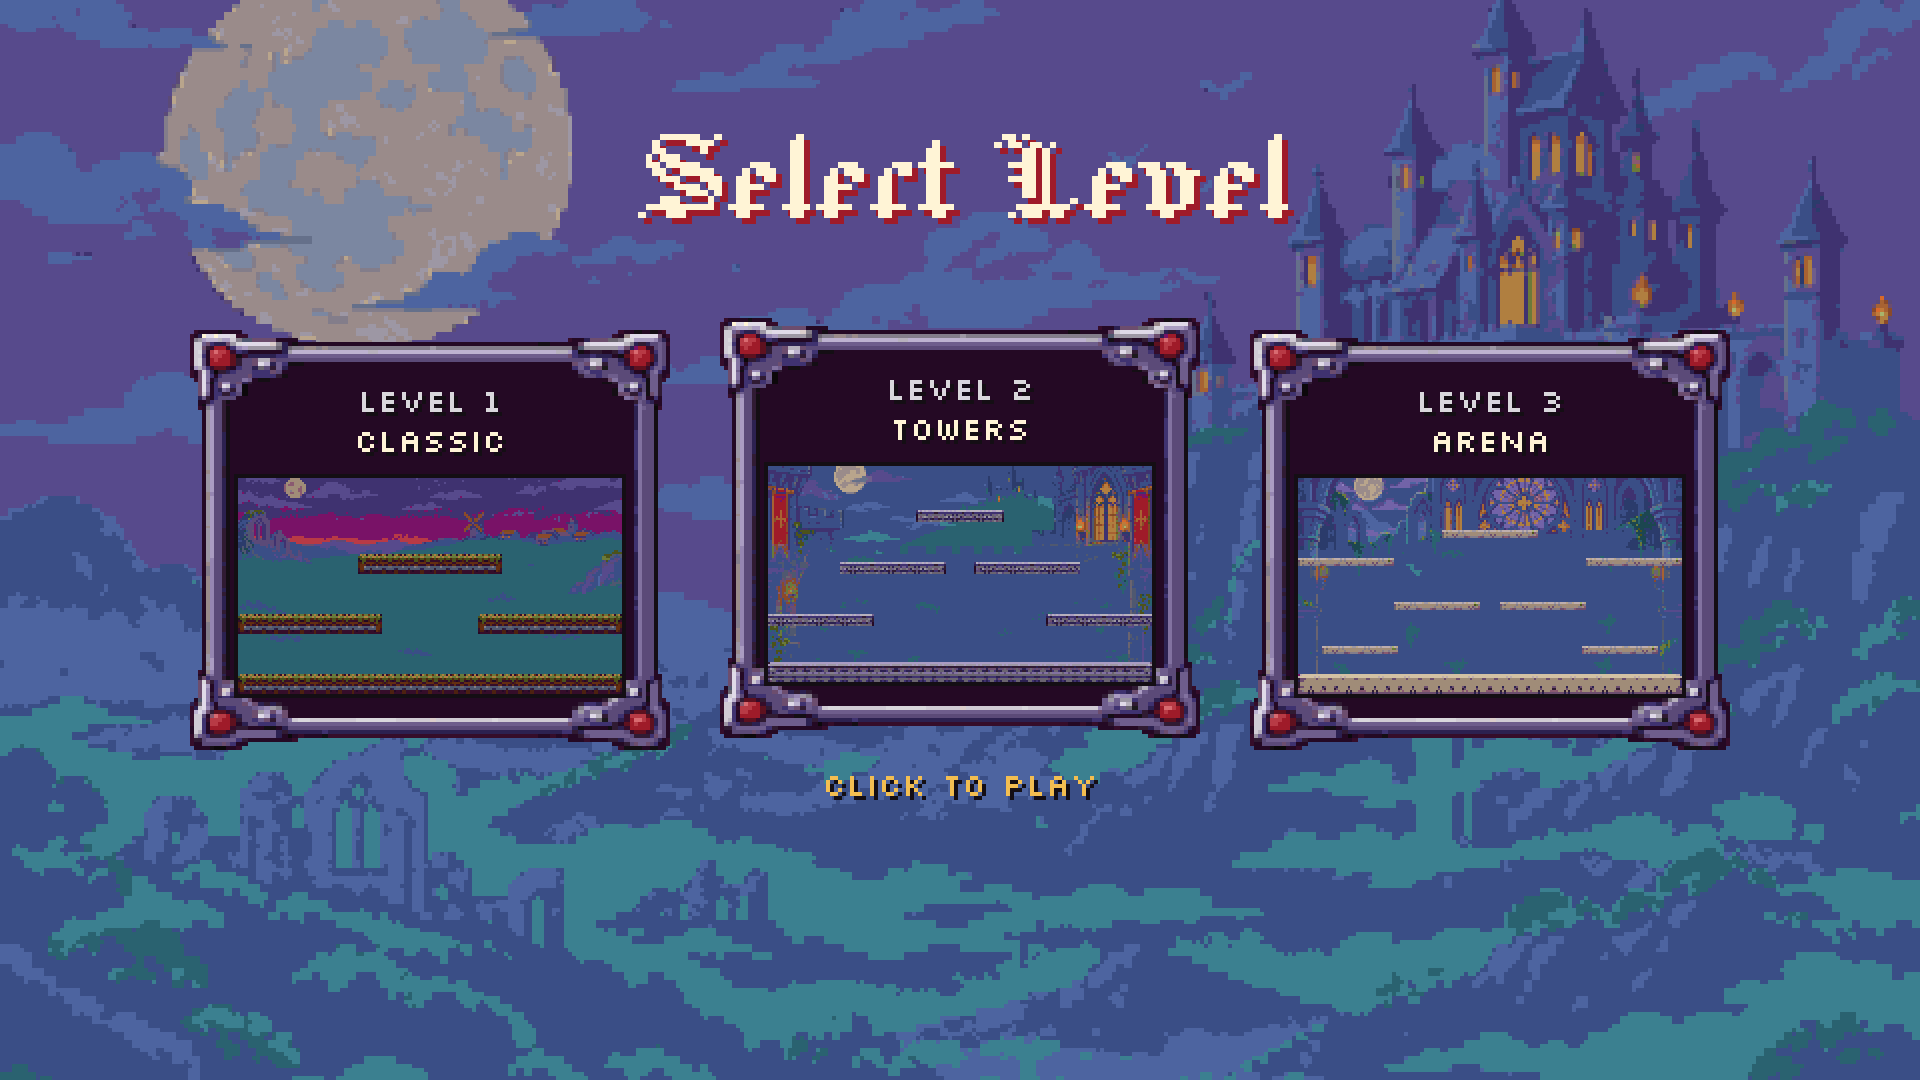
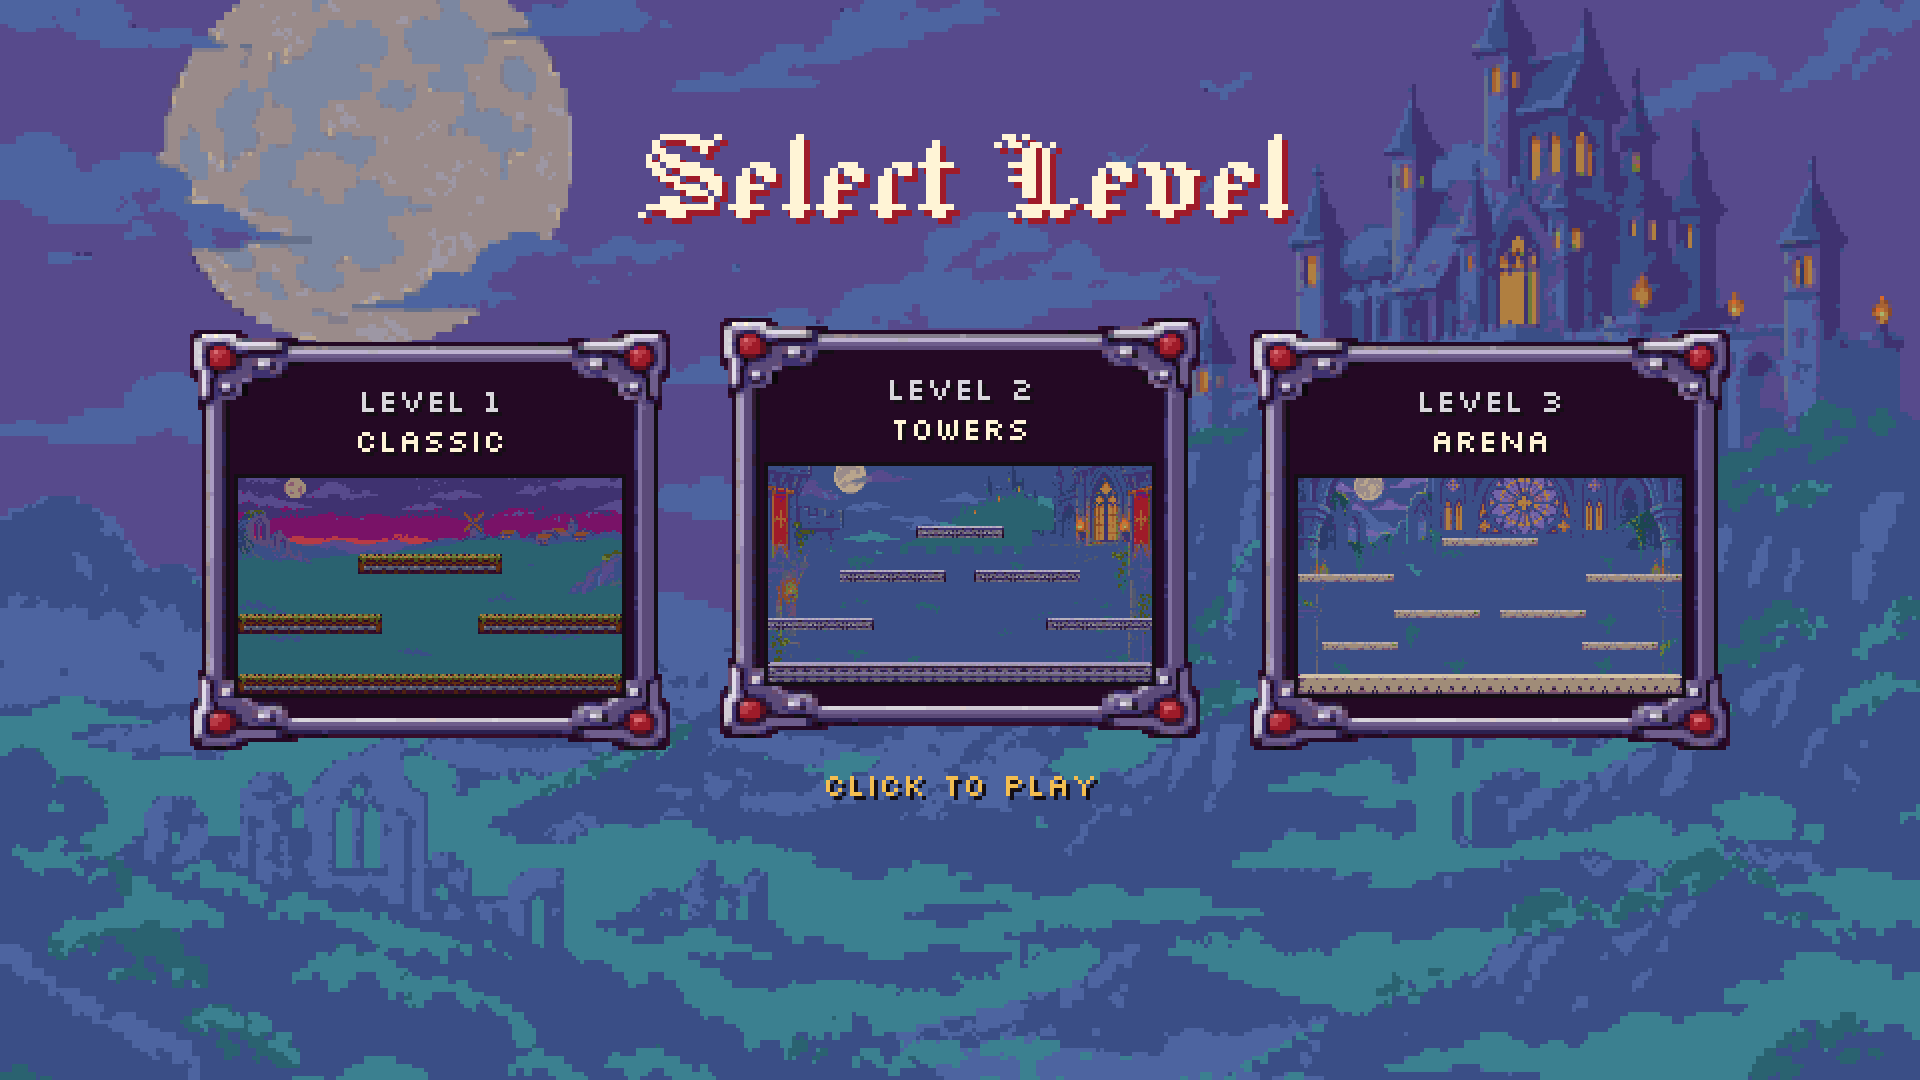
fix: lower the top platforms so a standing player's tag clears the HUD
Towers and Arena top platforms move to y 150 (tiers spaced evenly between the
ground and the top). Tests check the tag clearance and the spacing. Also: the
background docstrings, the test comments, a clear error when shoot.py has not
been run, and an assert before the 16:9 crop.

🤖 Generated with [Claude Code](https://claude.com/claude-code)

diff --git a/tests/test_levels.py b/tests/test_levels.py
@@ -9,20 +9,50 @@ import settings
 from combat import CombatSystem
 from entities import Player, level_platforms
 from input_handler import AIInputHandler
+from renderer import TAG_RISE, TOP_HUD_HEIGHT
 from world import GameWorld
 
 W, H = settings.VIRTUAL_W, settings.VIRTUAL_H
 LEVEL_IDS = range(len(settings.LEVELS))
 APEX_MARGIN = 12  # a platform must be this far below the jump's apex to land on it
+HUD_MARGIN = 6  # px between the HUD and a standing player's role tag
+STAND_HEIGHT = settings.GROUND_Y - int(
+    settings.FLOOR_Y
+)  # sprite top above its platform (60)
 
 
 @pytest.mark.parametrize("level", LEVEL_IDS)
 def test_platforms_sit_inside_the_canvas_above_the_ground(level):
     for (x, y), w, h in settings.LEVELS[level]["platforms"]:
         assert 0 <= x and x + w <= W
-        assert y >= 100  # below the HUD
         assert y + h <= settings.GROUND_Y  # not inside the ground
         assert y % 10 == 0  # "platform y must end in 0" (settings.py)
+
+
+@pytest.mark.parametrize("level", LEVEL_IDS)
+def test_a_player_standing_on_any_platform_clears_the_top_hud(level):
+    """The role tag sits TAG_RISE above the sprite, and the sprite stands STAND_HEIGHT above the
+    platform: the tag must be below the HUD with a margin."""
+    for (x, y), _, _ in settings.LEVELS[level]["platforms"]:
+        tag_top = y - STAND_HEIGHT - TAG_RISE
+        assert tag_top >= TOP_HUD_HEIGHT + HUD_MARGIN, (
+            settings.LEVELS[level]["name"],
+            y,
+        )
+
+
+@pytest.mark.parametrize("level", LEVEL_IDS)
+def test_the_tiers_are_evenly_spaced_between_the_ground_and_the_top(level):
+    ys = sorted(
+        {y for (_, y), _, _ in settings.LEVELS[level]["platforms"]}
+        | {settings.GROUND_Y},
+        reverse=True,
+    )
+    steps = [a - b for a, b in zip(ys, ys[1:])]
+    assert (
+        max(steps) <= 150
+    )  # the steps Classic always had; under the jump's 189 px apex
+    assert max(steps) - min(steps) <= 40  # no tier is squeezed against another
 
 
 @pytest.mark.parametrize("level", LEVEL_IDS)

diff --git a/src/settings.py b/src/settings.py
@@ -68,8 +68,11 @@ BULLET_COLOR = GOLD
 
 
 # Levels  — platform y must end in 0 so velocity steps land cleanly. Laid out on the 960x540
-# canvas: the old 800x600 layouts moved up 60 px (the ground is 60 px higher) and stretched 1.2x
-# sideways, so every vertical step is unchanged and the platforms span the whole width.
+# canvas: the old 800x600 layouts stretched 1.2x sideways so the platforms span the whole width.
+# The tiers are spaced evenly between the ground (490) and the top platform, which sits at 150 or
+# lower: a player standing on it has its role tag and health bar (110 px above the platform) clear
+# of the HUD at the top (34 px). Every step is at most 150 px (Classic's, as always), under the
+# jump's 189 px apex.
 class Level(TypedDict):
     name: str
     background: str  # assets/images/background/<background>.png
@@ -93,11 +96,11 @@ LEVELS: list[Level] = [
         "background": "towers",
         "style": "towers",
         "platforms": [
-            ((0, 370), 264, 30),
-            ((696, 370), 264, 30),
-            ((180, 240), 264, 30),
-            ((516, 240), 264, 30),
-            ((372, 110), 216, 30),
+            ((0, 380), 264, 30),
+            ((696, 380), 264, 30),
+            ((180, 260), 264, 30),
+            ((516, 260), 264, 30),
+            ((372, 150), 216, 30),
         ],
     },
     {
@@ -105,13 +108,13 @@ LEVELS: list[Level] = [
         "background": "arena",
         "style": "arena",
         "platforms": [
-            ((60, 420), 192, 20),
-            ((708, 420), 192, 20),
-            ((240, 310), 216, 20),
-            ((504, 310), 216, 20),
-            ((0, 200), 240, 20),
-            ((720, 200), 240, 20),
-            ((360, 130), 240, 20),
+            ((60, 410), 192, 20),
+            ((708, 410), 192, 20),
+            ((240, 330), 216, 20),
+            ((504, 330), 216, 20),
+            ((0, 240), 240, 20),
+            ((720, 240), 240, 20),
+            ((360, 150), 240, 20),
         ],
     },
 ]

diff --git a/src/renderer.py b/src/renderer.py
@@ -10,6 +10,8 @@ CARD_BORDER = 20  # px of the card frame art that keep their pixels
 CARD_LIFT = 6  # a hovered card is drawn this much higher
 THUMB_MARGIN = 24  # a card's preview is inset this far from its sides
 PLATE_EDGE = 2  # border width of the HUD plates
+TOP_HUD_HEIGHT = 34  # the score plates and level name at the top of the screen
+TAG_RISE = 50  # a role tag's top is this far above its player's sprite
 CARD_SIZE = (240, 210)  # a level-select card
 
 
@@ -92,7 +94,7 @@ class GameRenderer:
         is_vampire = vampire is player
         role_lbl = self._lbl_vampire if is_vampire else self._lbl_peasant
         tag = pygame.Rect(0, 0, role_lbl.get_width() + 10, role_lbl.get_height() + 6)
-        tag.midtop = (ix + player.width // 2, iy - 50)
+        tag.midtop = (ix + player.width // 2, iy - TAG_RISE)
         self._plate(tag, settings.PLUM)
         self._window.blit(role_lbl, role_lbl.get_rect(center=tag.center))
 
@@ -115,7 +117,7 @@ class GameRenderer:
         pygame.draw.rect(self._window, settings.RIM, (bar_x, bar_y, bar_w, bar_h), 1)
 
     def _draw_top_hud(self, p1, p2, current_level: int, score_surfs) -> None:
-        pad, panel_h = 10, 34
+        pad, panel_h = 10, TOP_HUD_HEIGHT
 
         p1_surf = score_surfs[0]
         p1_rect = pygame.Rect(0, 0, p1_surf.get_width() + pad * 2, panel_h)

diff --git a/scripts/art_gen/make_media.py b/scripts/art_gen/make_media.py
@@ -185,11 +185,15 @@ def devlog_comparisons() -> None:
     out = ROOT / "docs" / "devlog" / "img"
     scale = 0.7
     for name in ("menu", "level_select", "level0", "level1", "level2"):
-        old = WORK / f"p43_{name}.png"
-        if not old.exists():
-            continue
+        old, new = WORK / f"p43_{name}.png", WORK / f"after_{name}.png"
+        missing = [p.name for p in (old, new) if not p.exists()]
+        if missing:
+            raise SystemExit(
+                f"missing {missing} in {WORK}: run scripts/art_gen/shoot.py first (the p43_* "
+                "frames are the 800x600 shots from before the 16:9 change, kept by hand)"
+            )
         left = Image.open(old).convert("RGB")
-        right = Image.open(WORK / f"after_{name}.png").convert("RGB")
+        right = Image.open(new).convert("RGB")
         left = left.resize((round(w * scale) for w in left.size), Image.Resampling.BOX)
         right = right.resize(
             (round(w * scale) for w in right.size), Image.Resampling.BOX

diff --git a/tests/test_game.py b/tests/test_game.py
@@ -111,7 +111,7 @@ def test_step_intro_two_player_seq_1_holds_p2_until_p1_descends_past_the_thresho
     game._p2.y = settings.FLOOR_Y
     p2_y_before = game._p2.y
 
-    game._step_intro()  # p1 still above the 340 gate -- p2 must not move yet
+    game._step_intro()  # p1 still above the gate (FLOOR_Y - 150) -- p2 must not move yet
     assert game._p2.y == p2_y_before
     assert game._intro_flag is False
 
@@ -132,7 +132,7 @@ def test_step_intro_two_player_seq_3_holds_p1_until_p2_descends_past_the_thresho
     game._p2.y = settings.FLOOR_Y
     p1_y_before = game._p1.y
 
-    game._step_intro()  # p2 still above the 340 gate -- p1 must not move yet
+    game._step_intro()  # p2 still above the gate (FLOOR_Y - 150) -- p1 must not move yet
     assert game._p1.y == p1_y_before
     assert game._intro_flag is False
 

diff --git a/src/background.py b/src/background.py
@@ -1,4 +1,4 @@
-"""The full-screen backdrops: one finished 800x600 picture per level and for the menu."""
+"""The full-screen backdrops: one finished 960x540 picture per level and for the menu."""
 
 import functools
 
@@ -11,7 +11,7 @@ _DIR = "assets/images/background"
 def load_background(name: str, size: tuple[int, int]) -> pygame.Surface:
     """`assets/images/background/<name>.png`, as an opaque surface of `size`.
 
-    The art is already 800x600; any other size is scaled with nearest-neighbor.
+    The art is already 960x540; any other size is scaled with nearest-neighbor.
     Cached per name and size, so a picture is read from disk once.
     """
     image = pygame.image.load(f"{_DIR}/{name}.png").convert()

diff --git a/scripts/art_gen/process.py b/scripts/art_gen/process.py
@@ -162,6 +162,7 @@ def process_bg(name: str) -> None:
     # 16:9 from the 3:2 picture: all of the width, and the top part of the height (the sky and
     # the scenery are on top; the bottom is calm ground haze that the ground strip covers).
     ch = round(w * 9 / 16)
+    assert ch <= h, f"{name}: a {w}x{h} picture is too short for a 16:9 crop"
     top = round((h - ch) * CROP_TOP)
     img = img.crop((0, top, w, top + ch))
     img = img.resize(BG_SIZE, Image.Resampling.BOX)

diff --git a/docs/devlog/2026-11-20-art-style-candidates.md b/docs/devlog/2026-11-20-art-style-candidates.md
@@ -209,23 +209,27 @@ canvas instead of 800x600. Everything is in this PR (still #19).
   the same way, so the look is unchanged and the sides show more scenery. Art pixel size is still
   2x2 screen pixels (the art is 480x270). The readability check holds (standing band, nothing
   near-black, no red).
-- **Heights.** The ground strip is still 50 px, now at y 490 (`settings.GROUND_Y`), so the whole
-  scene moved up 60 px: `FLOOR_Y` 430 and every platform 60 px higher. Every vertical step is
-  therefore the same as before.
+- **Heights.** The ground strip is still 50 px, now at y 490 (`settings.GROUND_Y`), so the scene
+  moved up 60 px: `FLOOR_Y` 430. Classic's platforms moved up with it, so its steps are exactly
+  the old ones. Towers and Arena needed more: a first version that only moved everything up 60 px
+  put the top platforms at y 110 and 130, so a player standing on one had its role tag (50 px
+  above the sprite, which stands 60 px above the platform) under the level name and score plates.
+  The top platforms are now at y 150 or lower, and the tiers between them and the ground are
+  spaced evenly (see below), so the tag clears the 34 px HUD with a margin.
 - **Levels.** Platform x positions and widths are stretched 1.2x so the platforms span the whole
-  960 px and stay symmetric: Classic (0 to 360, 600 to 960, and the top one 300 to 660), Towers
-  (264-wide low and mid platforms, a 216-wide top one) and Arena (the low platforms 192 wide, 60
-  px in from the edges, the others 216 to 240). Judgment calls: the Arena's low platforms keep
-  their 60 px inset like before; the gaps between platforms grew by 20% but stay far below the
-  jump's reach (about 275 px for the peasant, 358 for the vampire), and the highest platform is
-  150 px above the ground, under the jump's 189 px apex.
+  960 px and stay symmetric. Final layouts (platform y; ground 490): Classic 340 and 190 (steps
+  150), Towers 380, 260 and 150 (steps 110, 120, 110), Arena 410, 330, 240 and 150 (steps 80, 80,
+  90, 90). Widths: Classic 360; Towers 264 and a 216-wide top one; Arena 192 for the low pair
+  (kept 60 px in from the edges), 216 and 240 for the others. Every step is at most 150 px, under
+  the jump's 189 px apex (about 275 px of horizontal reach for the peasant, 358 for the vampire).
 - **Checks.** `tests/test_levels.py` measures the real jump arc from the game's physics and runs a
   reachability search on every level for both characters (including the screen wrap), checks the
-  layouts stay inside the canvas and symmetric, and plays two AIs against each other on every
+  layouts stay inside the canvas and symmetric, that a player standing on any platform has its tag
+  clear of the HUD, that the tiers are evenly spaced, and plays two AIs against each other on every
   level: rounds keep ending, none drags on, and the chaser is never stuck. In a longer run (3
-  seeds x 30000 frames per level) the new layouts behave like the old: 160 to 180 rounds on Classic
-  and Towers, 107 to 133 on Arena (the old Arena: 117 to 142), longest round 2344 frames (old:
-  3817).
+  seeds x 30000 frames per level): Classic 178 to 180 rounds (old 4:3 layout: 176 to 178), Towers
+  158 to 169 (old: 158 to 163) and Arena 147 to 154 (old: 117 to 142), with the longest round at
+  630 frames on Arena (old: 3817) and 452 on Towers (old: 629).
 - **Everything else follows the canvas:** the menu buttons and the countdown glyph moved to the
   new center (the START block keeps its distance from the top), level-select cards are 240x210 so
   their previews are 16:9, the HUD plates anchor to the new corners, `combat.begin_round` spawns
